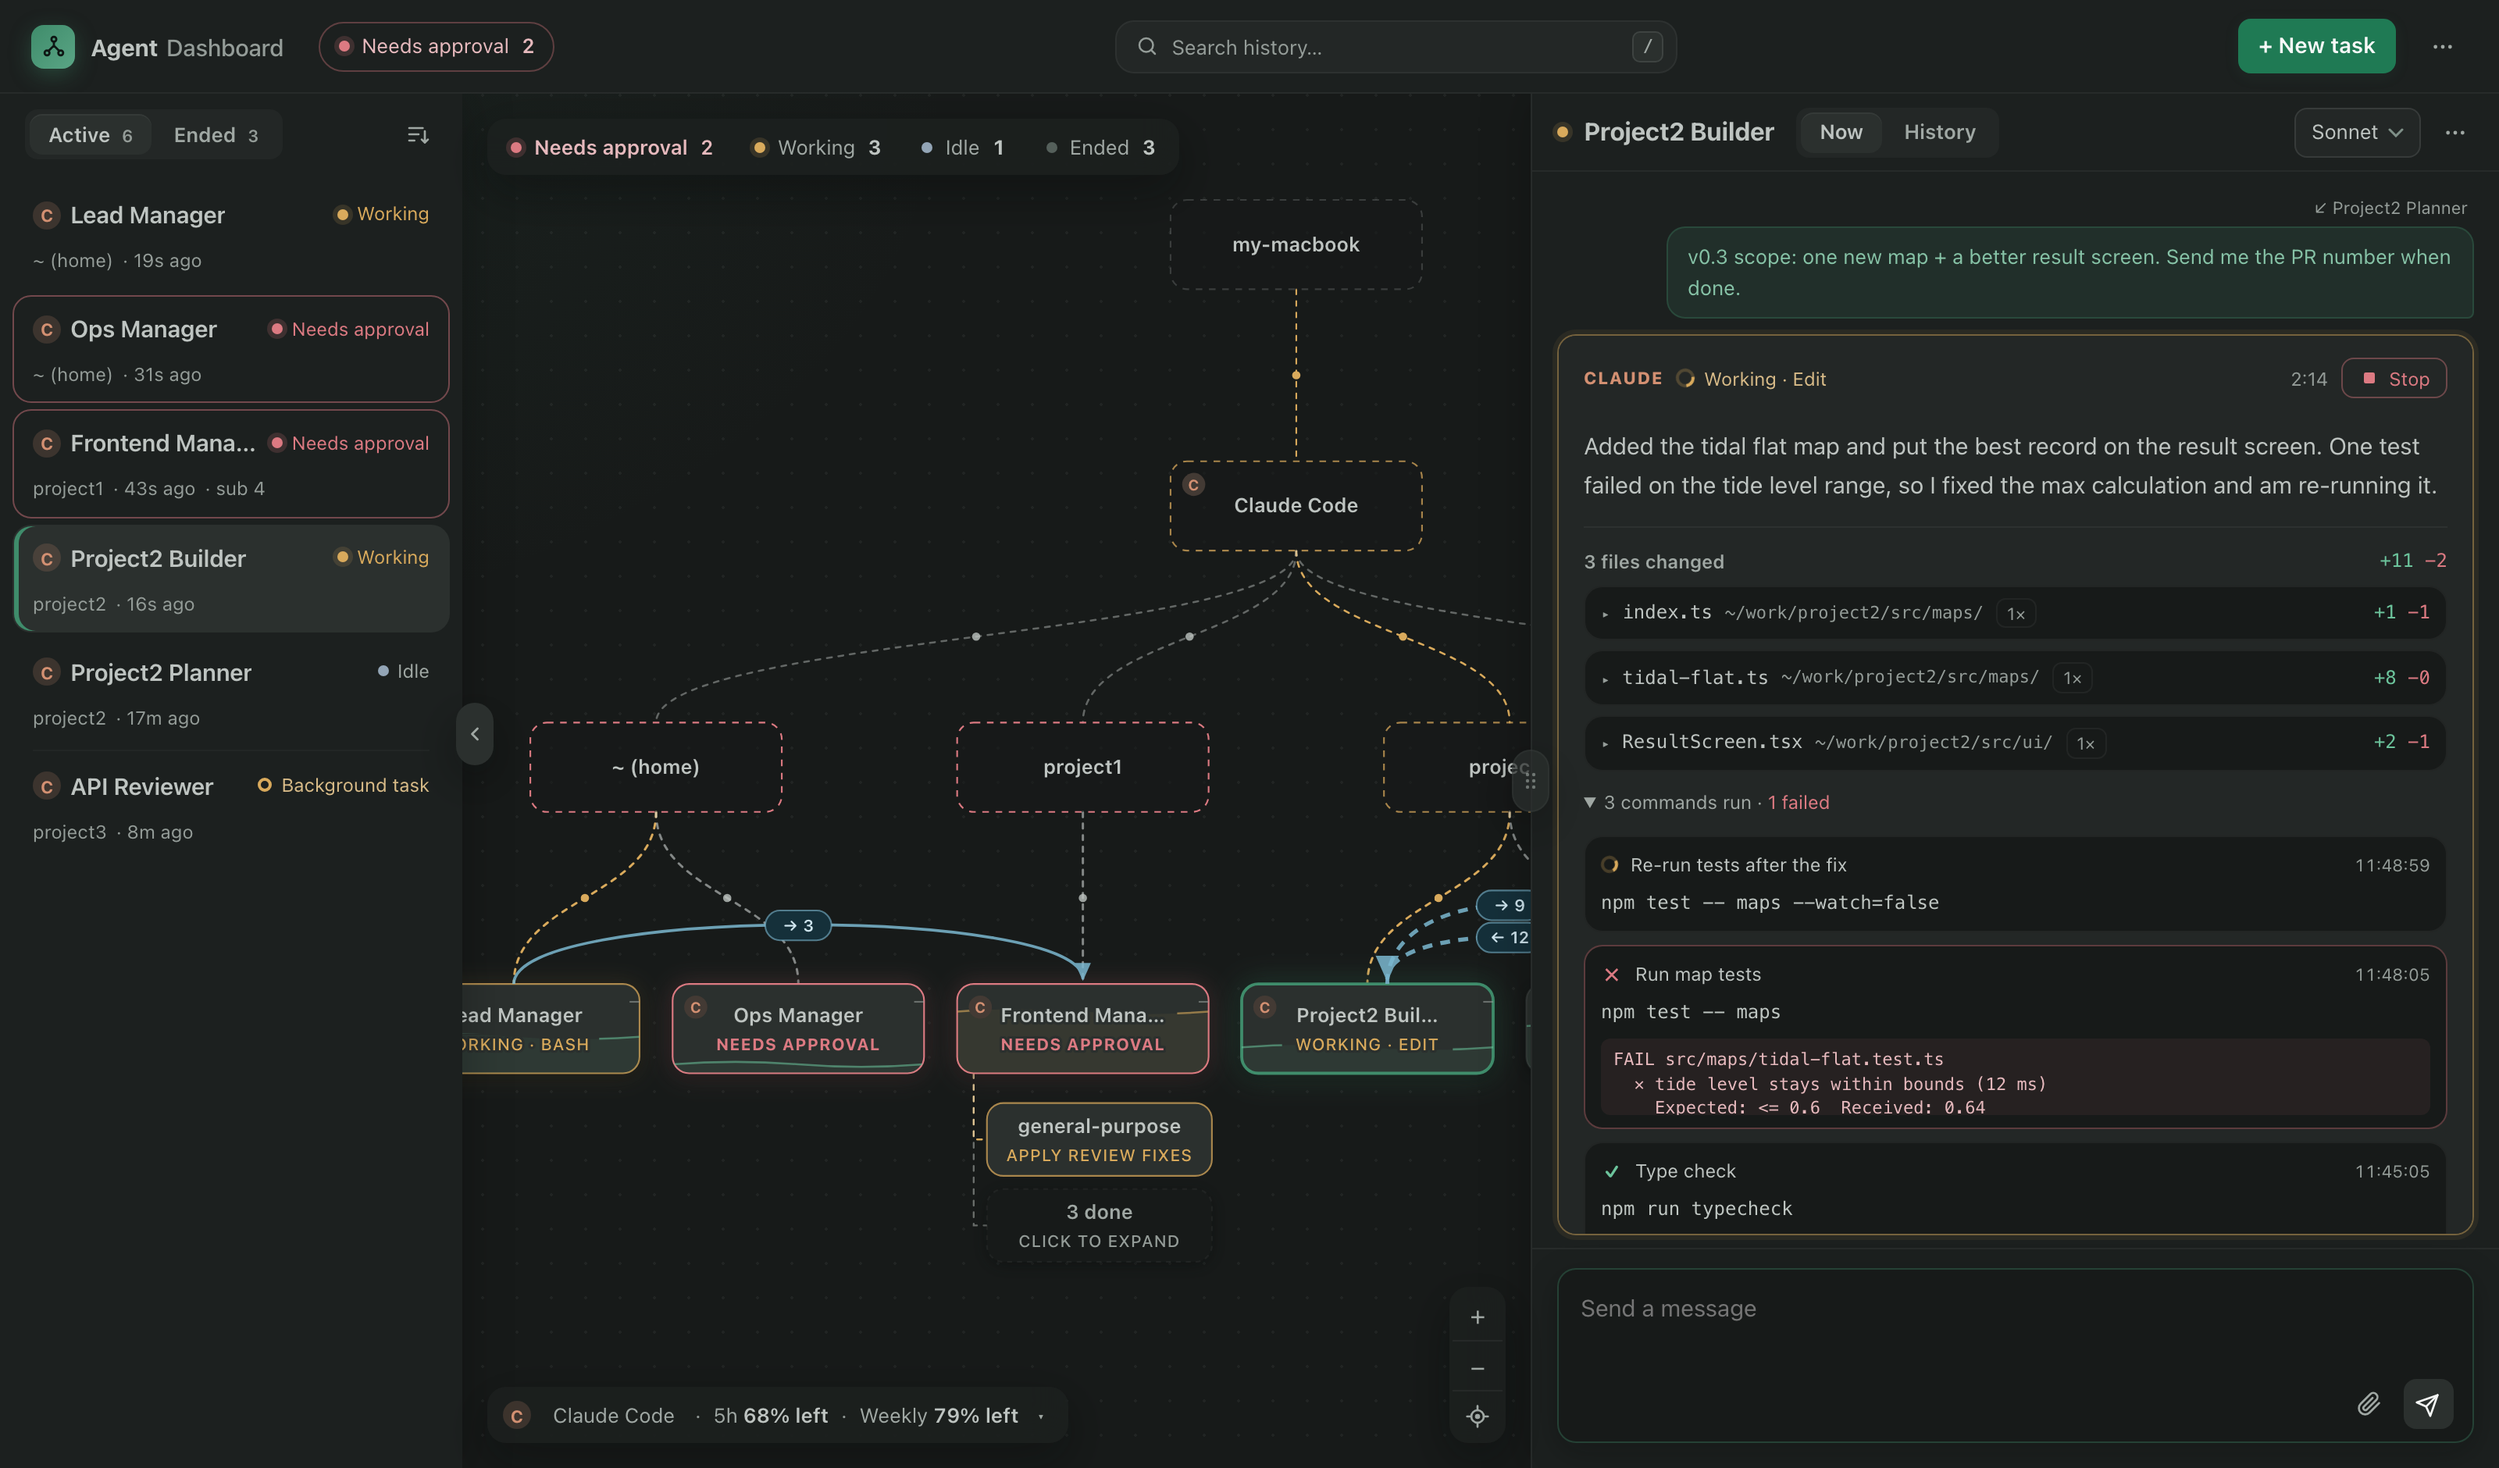
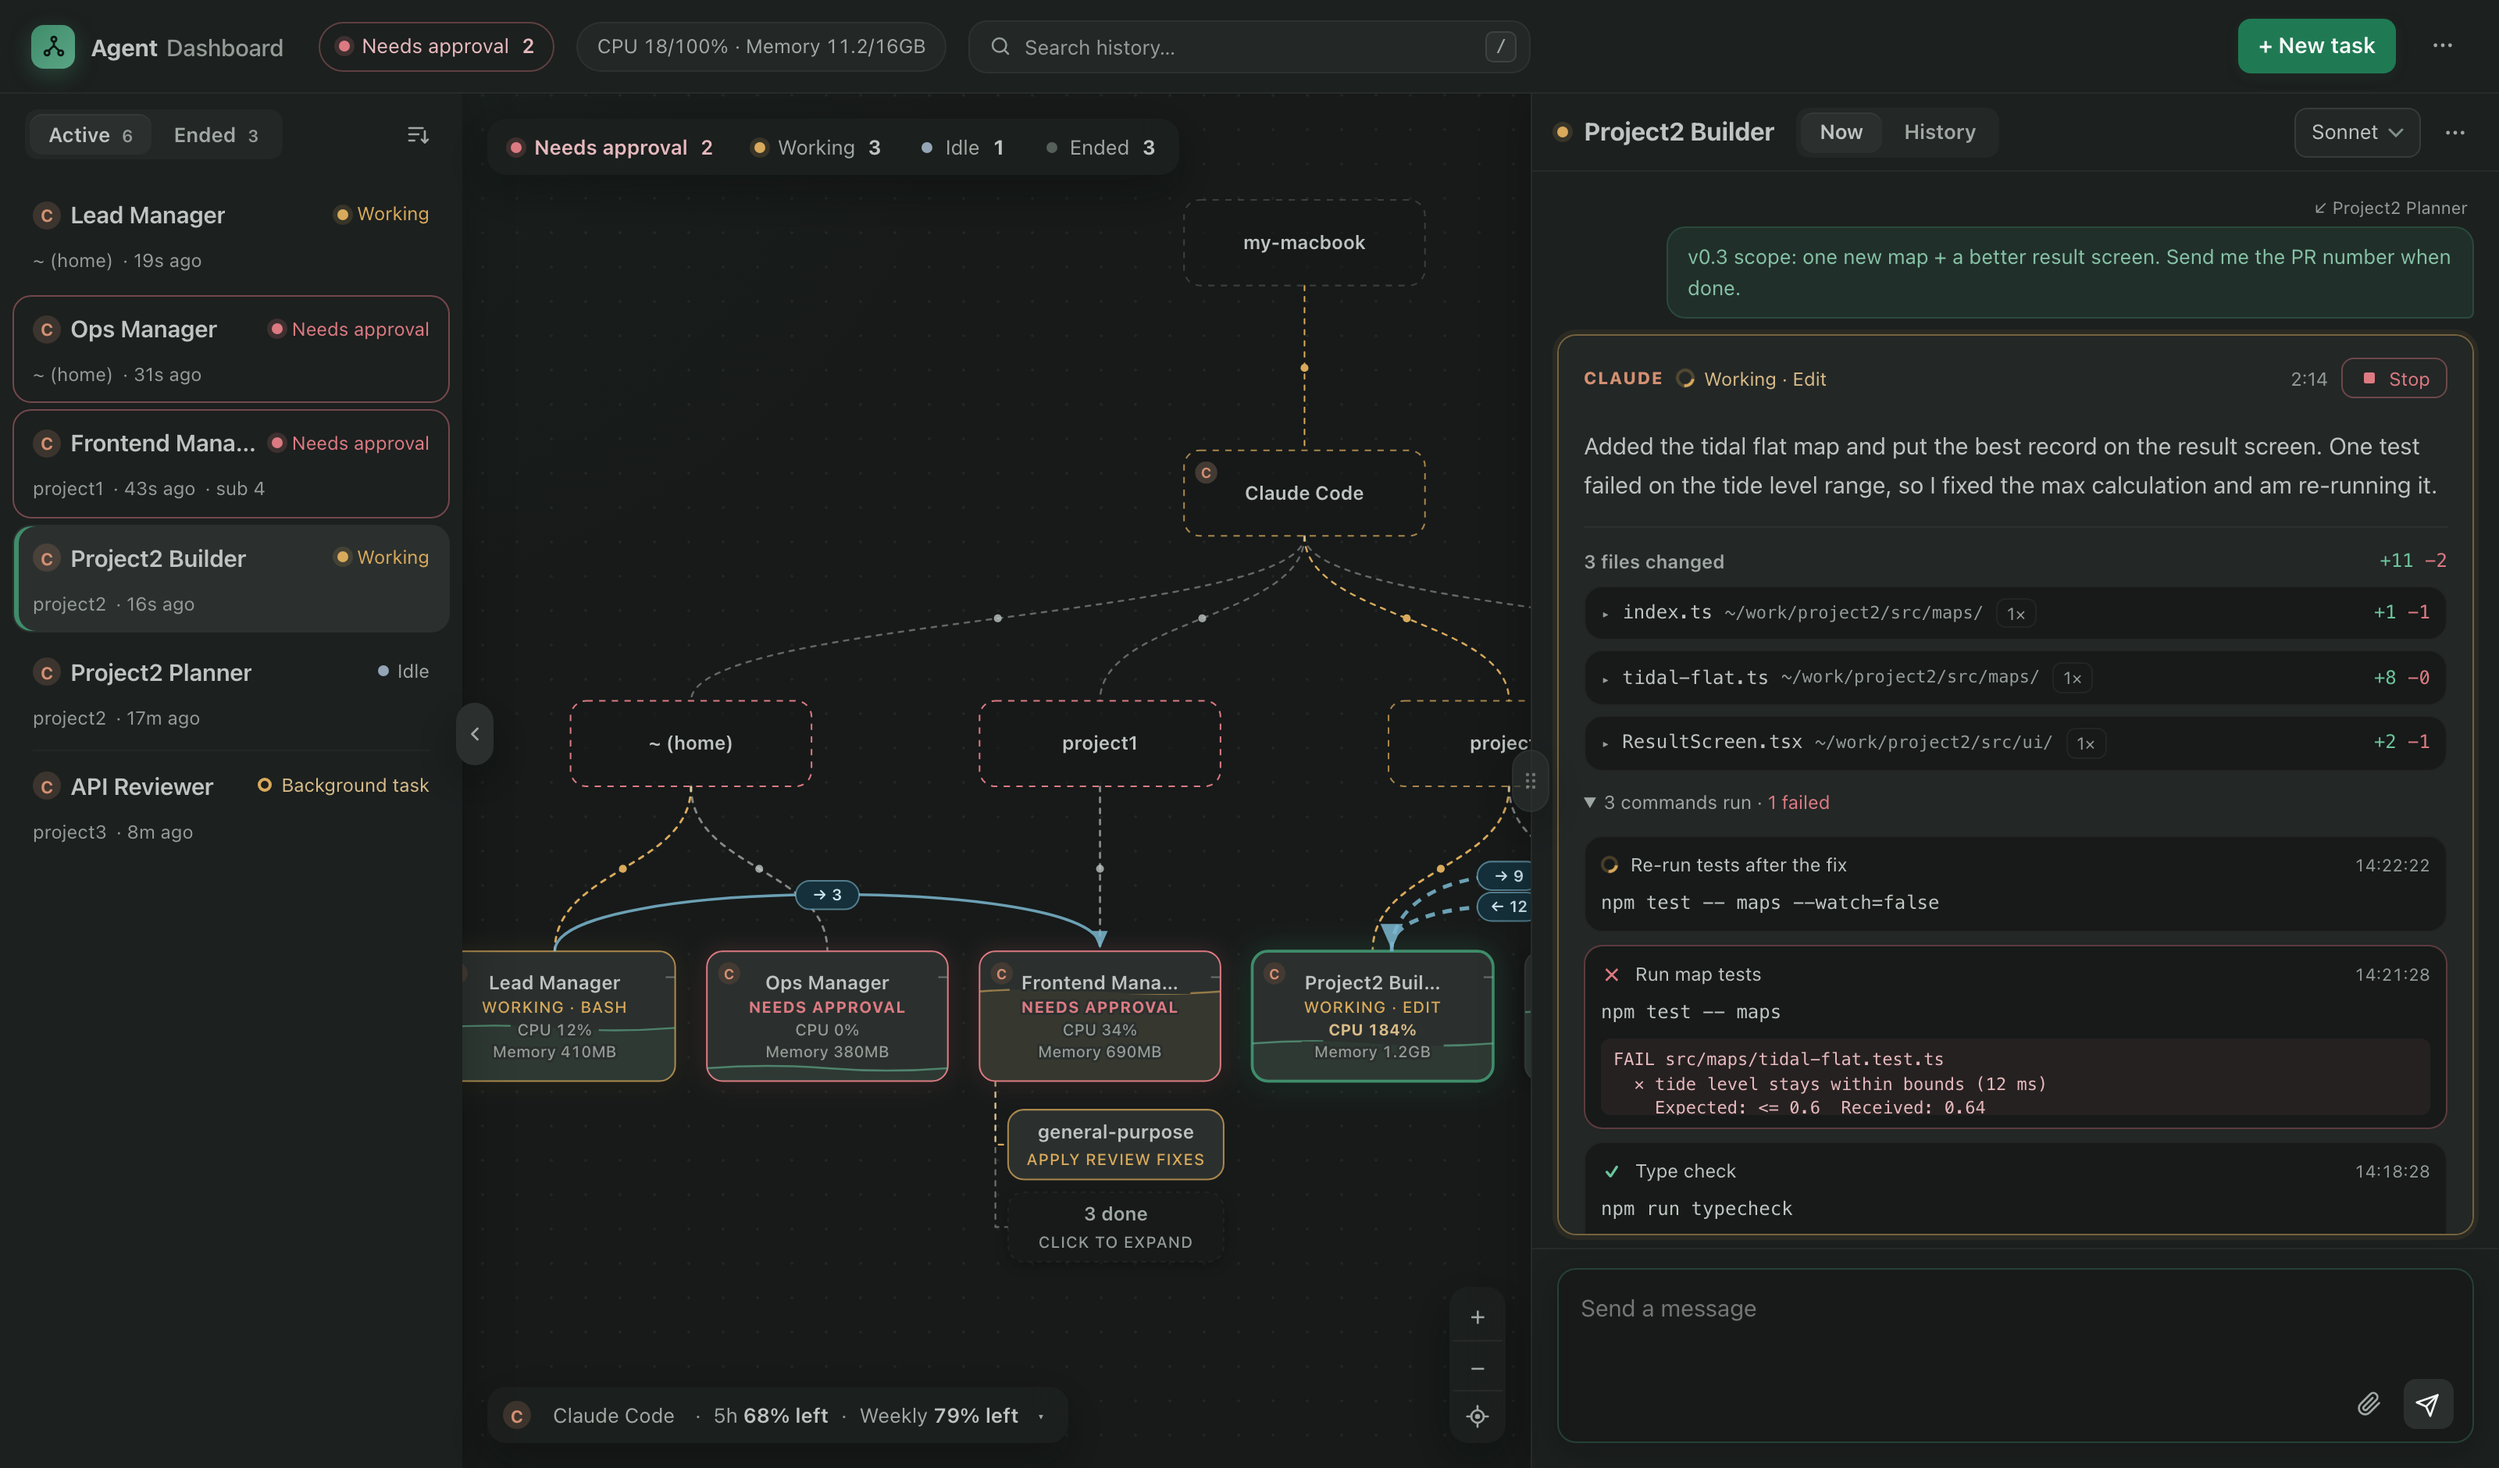
문서: README 그림 다시(노드 CPU · 메모리 · 검색창 가운데) · CPU 설명 · 로드맵
데모 어두운 판, 같은 설정(1600x940 @2x · GIF 1100px 6fps 128색) 두 언어. 콘솔 오류 0.

diff --git a/README.md b/README.md
@@ -271,7 +271,7 @@ node bin/agent-dashboard.mjs restore   # 재시동 전 세션들을 tmux 로 다
 
 ## 모델 · 사용량
 
-- **CPU · 메모리** — 머리 칩 「CPU 23% · 메모리 13.7/16GB」는 컴퓨터 전체(모든 코어 대비, 메모리는 활성 상태 보기 「사용된 메모리」와 같은 셈 · 압력이 주의 · 위험이면 색). 세션별 값은 ⓘ 세션 정보에(그 세션 + 테스트 · 빌드 · 개발 서버 같은 자식 프로세스 합계, 코어 하나 = 100%, 가장 무거운 자식은 실행 파일 이름만). 카드 · 노드에는 무거울 때만(CPU 80% · 메모리 1.5GB 를 두 번 연속 넘을 때) 「CPU 180%」 꼬리표 — 60% · 1.2GB 아래로 두 번 내려가면 사라져요
+- **CPU · 메모리** — 머리 칩 「CPU 23/100% · 메모리 13.7/16GB」는 컴퓨터 전체(모든 코어 = 100%, 메모리는 활성 상태 보기 「사용된 메모리」와 같은 셈 · 압력이 주의 · 위험이면 색). 세션별 값은 조직도 노드 아래 두 줄 「CPU 35%」 · 「메모리 480MB」로 늘 보여요(그 세션 + 테스트 · 빌드 · 개발 서버 같은 자식 프로세스 합계, 코어 하나 = 100%). 무거우면(CPU 80% · 메모리 1.5GB 를 두 번 연속 넘을 때) 그 줄이 강조되고 60% · 1.2GB 아래로 두 번 내려가면 돌아와요. 가장 무거운 자식(실행 파일 이름만)은 ⓘ 세션 정보에
 - **모델** — + 새 작업(새 작업 창)에서 선택, 떠 있는 tmux 세션은 패널 머리에서 변경(`/model` 전송). Claude 의 `/model` 은 기본 모델까지 바꿔 저장하는데, 대시보드에서 바꿀 땐 **그 세션만** 바뀌고 기본 모델은 자동으로 원래대로 돌려놓아요.
 - **계정 사용 한도(5시간·주간)** — 범례 Claude Code 항목의 **사용 한도 보기** 스위치로 켜고 꺼요. 처음 켤 때만 「Claude 설정(~/.claude/settings.json)에 상태줄을 연결해요 · 끄면 원래대로」 줄과 **연결** 단추가 나오고, 한 번 연결한 브라우저는 다음부터 바로 켜져요. 끄기는 확인 없이 바로 원래 상태줄로 돌아가요. Claude Code 가 이 정보를 상태줄에만 넘겨줘서, 켜면 `~/.claude/settings.json` 에 상태줄(`bin/statusline.mjs`)을 등록해요.
   - 모든 Claude 세션 맨 아래에 `모델 · 대화 창 % · 5시간 한도 %` 한 줄이 생겨요(원래 쓰던 상태줄이 있으면 그걸 그대로 보여 줘요).

diff --git a/README.en.md b/README.en.md
@@ -270,7 +270,7 @@ A session already running in a terminal has no official way to receive input fro
 
 ## Model · usage
 
-- **CPU · memory** — the header chip "CPU 23% · Memory 13.7/16GB" is the whole computer (all cores; memory counted like Activity Monitor's "Memory Used", colored when memory pressure is warning or critical). Per-session values are in ⓘ session info (the session plus child processes such as tests, builds and dev servers; one core = 100%; the heaviest child shows only its program name). Cards and nodes get a "CPU 180%" tag only when heavy (above 80% CPU or 1.5GB twice in a row), and it goes away after two readings below 60% · 1.2GB
+- **CPU · memory** — the header chip "CPU 23/100% · Memory 13.7/16GB" is the whole computer (all cores = 100%; memory counted like Activity Monitor's "Memory Used", colored when memory pressure is warning or critical). Each session's values are always shown as two lines under its map node, "CPU 35%" and "Memory 480MB" (the session plus child processes such as tests, builds and dev servers; one core = 100%). When heavy (above 80% CPU or 1.5GB twice in a row) that line is highlighted, and it goes back after two readings below 60% · 1.2GB. The heaviest child (program name only) is in ⓘ session info
 - **Model** — choose in + New task (the New task window); change a running tmux session's model from the panel header (sends `/model`). Claude's `/model` also saves your default model, so when you change it from the dashboard **only that session** changes and your default is restored automatically.
 - **Account usage limits (5-hour · weekly)** — turn on and off with the **Show usage limits** switch in the Claude Code item of the legend. Only the first time you turn it on, a line "Connects a status line in Claude settings (~/.claude/settings.json) · turning it off restores it" and a **Connect** button appear; once connected, that browser turns it on directly. Turning off happens right away, with no confirmation, and restores your original status line. Claude Code only passes this to the status line, so turning it on registers a status line (`bin/statusline.mjs`) in `~/.claude/settings.json`.
   - Every Claude session gets one line at the bottom: `model · context % · 5-hour limit %` (if you already had a status line, it keeps showing yours).

diff --git a/docs/ROADMAP.md b/docs/ROADMAP.md
@@ -112,6 +112,7 @@
 - [x] 밝은 판 눈부심 줄이기 — 밝음 · 따뜻한 밝음 바탕 surface 상대 밝기 94 · 92 → 80%(bg 89 · 87 → 76 · 75), 글자 · 상태색은 대비 규칙만큼 어둡게, 대비 시험의 따뜻한 밝음 블록 찾기 버그 고침 · waiting-bg · peer-bg 면 · 바탕 83% 이하 검사 `8127c45`. 조직도 글자 최소 크기는 이미 2081f02(맞춤 배율 1배 아래 안 줄임 → 이름 12px, 실측 1024 · 1600 모두 12px)
 - [x] 승인 창 질문(AskUserQuestion) 막힘 고침 — Claude Code 2.1.311 실측(테스트 tmux · test/fixtures/ask 10장): 여러 개 고르기는 체크 상자 단추 + 「다음 · 제출 화면으로 →」(→ 키 · 마지막 질문에서도), 「Type something」 · 「Chat about this」는 단추에서 빼고 서버 409, 커서가 글 칸이면 터미널 안내 + ↑↓, ← → 단축키 `9d51d08`
 - [x] 머리 칩 확장 — CPU · 메모리 막대(사용 한도와 같은 lp-bar, 메모리는 압력 색) · 「— 에이전트 N% · GB」(세션 합 ÷ 코어 수, 1180 이하 먼저 숨김) · 누르면 세션별 표(무거운 순 · 열린 동안 순서 고정 · 행 → 그 세션 · Esc · 바깥 · 초점) · 칩이 실제 모드에서 안 보이던 것(틱 메시지에 sysload) `fc8c576` `480cb54` · README 「업데이트」 표
+- [x] 세션 CPU · 메모리는 조직도 노드에 늘(이름 · 상태 · CPU · 메모리 네 줄 가운데, 무거운 줄만 강조 · 목록 꼬리표 뺌) · 머리 칩 「CPU 46/100% · 메모리 12.8/16GB」(막대 · 에이전트 합계 · 세션별 표 뺌) · 검색창 화면 정가운데(머리 세 칸 grid, 최대 800px · 좁으면 280px 바닥) · README 그림 다시 `71a54a8` `01b5cc6`
 - 출시 방법: 버전 올리기 → CI 초록 → 사용자 승인 뒤 `v*` 태그 → Actions 「Review deployments」에서 사용자 Approve (`docs/CONVENTIONS.md` 「출시 절차」)
 - 사용자 몫(선택): npm 패키지 Settings → Publishing access 를 「Require 2FA and disallow bypass 2fa tokens」로(Trusted Publisher 출시는 그대로 됨)
 
